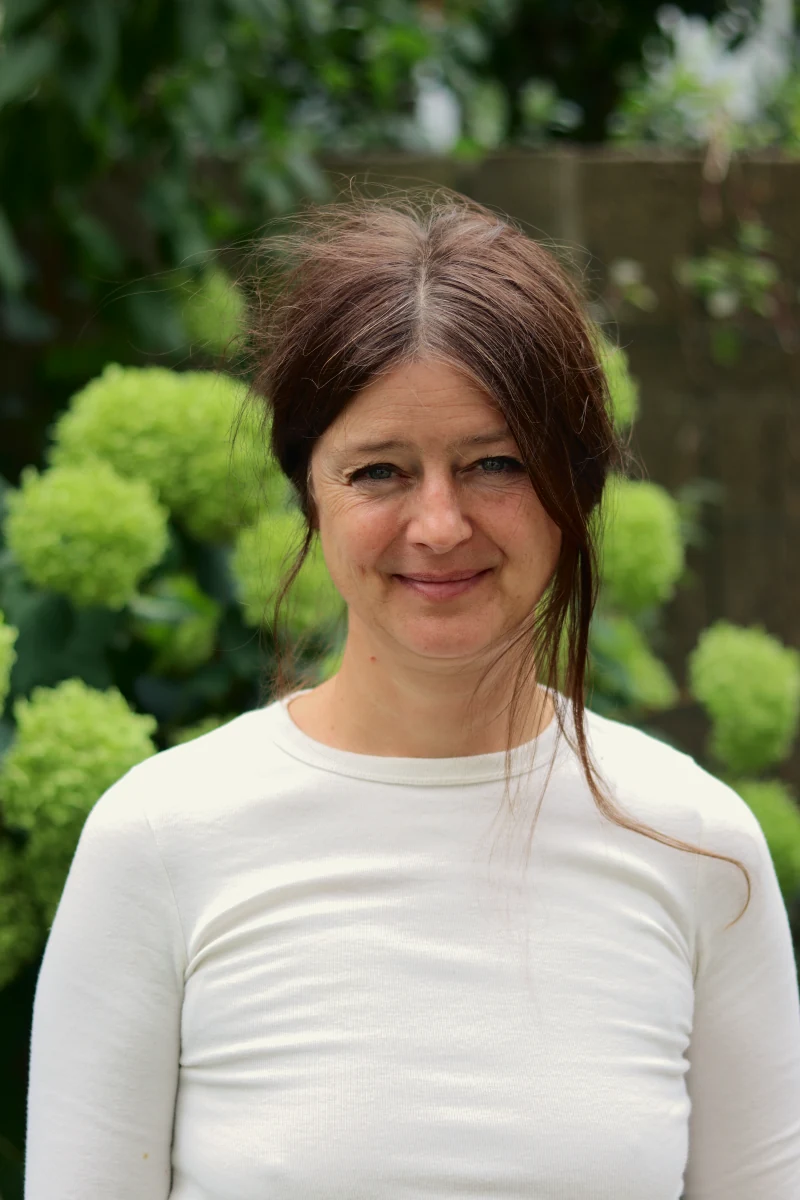
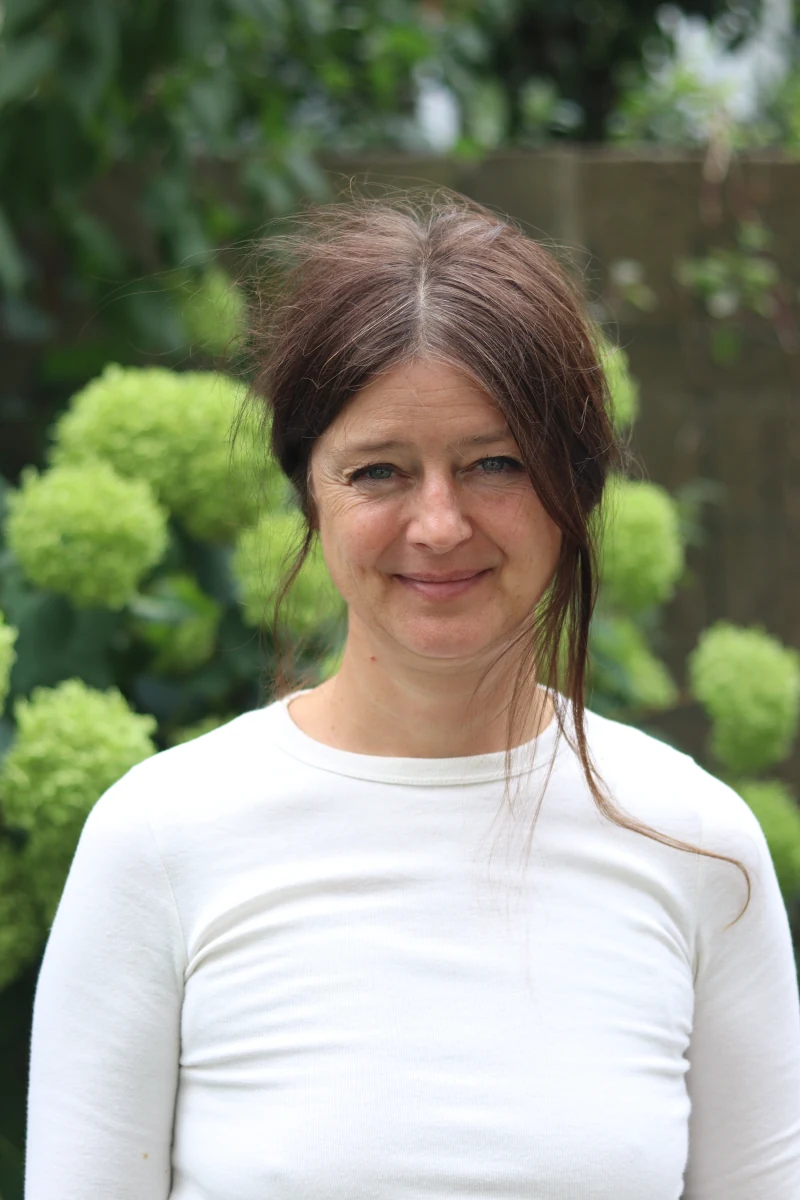
fix(team): portraits in their original colours
Rahman: "we should keep the original colors, it is better". Neither grade
tried on 2026-10-27 stays: build_team_portraits.py now only crops and
resizes the camera's own photographs (800px, WebP q88, still served
unoptimized so faces stay sharp).

diff --git a/src/config/content/team-spotlights.ts b/src/config/content/team-spotlights.ts
@@ -22,7 +22,7 @@ import { pick, say } from '@/lib/cms/copy';
  *
  * - Photographs only of real colleagues who agreed. The portraits are CASA's
  *   own team shoot of 2026-09-10, chosen and named by Rahman (2026-10-27), cropped
- *   and resized for the web in the site's warm editorial grade, light and colour only
+ *   and resized for the web in the camera's own colours, no grade
  *   (scripts/media/build_team_portraits.py): public/media/casa/team/. The six synthetic images
  *   that once sat there are gone: a made-up face beside a real colleague's name
  *   is never acceptable. Without a portrait the card shows one of the Bremer

diff --git a/scripts/media/build_team_portraits.py b/scripts/media/build_team_portraits.py
@@ -1,16 +1,10 @@
 """Build the team portraits (public/media/casa/team/) from CASA's 2026-09-10 team shoot.
 
 Each portrait is the colleague's own photograph — the file Rahman named after them, or the frame he
-chose (Meike: IMG_0342, 2026-10-27) — cropped where a recipe says so, resized, and graded the way
-build_reel.py grades the site's photographs (Codex's warm editorial pass, 2026-10-08): the white
-balance measured on the picture's own light neutrals — there a white wall, here a white collar or a
-pale background — then warmed, the tone curve to EDITORIAL_TONE, and EDITORIAL_CHROMA. Global light and
-colour only; nothing is retouched, moved or generated (CLAUDE.md hard rules 3 and 4).
-
-WARMTH. The first grade put the shared warm shift on top of the camera's own colour, so whites went
-yellow (b* +7 to +12; a white blouse read cream). The site's photographs end with their whites near
-neutral, b* about +1 (from -4 to +6, measured on the published files 2026-10-27). Each portrait is
-neutralised on its own light neutrals and then warmed until its whites reach WHITE_B, the same place.
+chose (Meike: IMG_0342, 2026-10-27) — cropped where a recipe says so and resized, in the camera's own
+colour. No grade: two were tried on 2026-10-27, build_reel.py's warm editorial pass and then the same
+pass neutralised on each photo's whites, and Rahman kept the original colours („it is better").
+Nothing is retouched, moved or generated (CLAUDE.md hard rules 3 and 4).
 
 SHARPNESS. The first set (1000px, WebP quality 82) went through the image server, which re-encoded it
 at quality 75 and lost about half its fine detail: skin read plastic, hair soft. Even at quality 90 the
@@ -32,16 +26,13 @@ import cv2
 import numpy as np
 from PIL import Image
 
-from build_reel import EDITORIAL_CHROMA, EDITORIAL_TONE, correct, load, warm
+from build_reel import load
 
 REPO = Path(__file__).resolve().parents[2]
 SOURCE = Path.home() / 'Downloads/CASA Team Photos 2026'
 OUT = REPO / 'public/media/casa/team'
 WIDTH = 800
 QUALITY = 88
-
-# Where a portrait's whites end, as on the site's photographs (b* of the light near-neutral pixels).
-WHITE_B = 2.5
 
 # slug: the original, and a box (x, y, width, height in the upright original) where the frame needs one.
 PORTRAITS = {
@@ -64,36 +55,6 @@ PORTRAITS = {
 }
 
 
-def whites(rgb: np.ndarray) -> tuple[np.ndarray, np.ndarray]:
-    """The light near-neutral pixels (L* over 60, chroma under 14) and their Lab values."""
-    lab = cv2.cvtColor(rgb, cv2.COLOR_RGB2LAB)
-    mask = (lab[..., 0] > 60) & (np.hypot(lab[..., 1], lab[..., 2]) < 14)
-    return mask, lab
-
-
-def grade(small: np.ndarray) -> np.ndarray:
-    """Neutral on its own whites, then warmed until they read as the site's do (WHITE_B)."""
-    mask, _ = whites(small)
-    neutral = small[mask].mean(axis=0) if mask.sum() > 500 else np.ones(3, np.float32)
-    gains = neutral[1] / neutral
-
-    def graded(strength: float) -> np.ndarray:
-        r, g, b = warm((1.0, 1.0, 1.0))
-        wb = gains * np.array([r ** strength, g, b ** strength], np.float32)
-        return correct(small, {'wb': tuple(wb), 'tone': EDITORIAL_TONE, 'chroma': EDITORIAL_CHROMA})
-
-    low, high = 0.0, 1.5
-    for _ in range(12):
-        mid = (low + high) / 2
-        out = graded(mid).astype(np.float32) / 255.0
-        mask, lab = whites(out)
-        if not mask.any() or lab[..., 2][mask].mean() > WHITE_B:
-            high = mid
-        else:
-            low = mid
-    return graded(low)
-
-
 def render(recipe: dict) -> np.ndarray:
     rgb = load(SOURCE / recipe['file'])
     h, w = rgb.shape[:2]
@@ -102,10 +63,8 @@ def render(recipe: dict) -> np.ndarray:
         if x0 < 0 or y0 < 0 or x0 + bw > w or y0 + bh > h:
             raise SystemExit(f"{recipe['file']}: box {recipe['box']} does not fit {w}x{h}")
         rgb = rgb[y0:y0 + bh, x0:x0 + bw]
-    # Resized first (only ever down), then graded: the grade is global, so the order changes nothing visible.
     size = (WIDTH, round(rgb.shape[0] * WIDTH / rgb.shape[1]))
-    small = cv2.resize(rgb, size, interpolation=cv2.INTER_AREA).astype(np.float32) / 255.0
-    return grade(small)
+    return cv2.resize(rgb, size, interpolation=cv2.INTER_AREA)
 
 
 def main() -> None:
@@ -126,7 +85,7 @@ def main() -> None:
             for row, image in enumerate((before, after)):
                 thumb = image.resize((tile, round(tile * image.height / image.width)), Image.LANCZOS)
                 canvas.paste(thumb, (10 + i * (tile + 10), 10 + row * (round(tile * 1.5) + 10)))
-        path = REPO / 'output/team-photos/grade-before-after.jpg'
+        path = REPO / 'output/team-photos/before-after.jpg'
         path.parent.mkdir(parents=True, exist_ok=True)
         canvas.save(path, quality=88)
         print(path)

diff --git a/CLAUDE.md b/CLAUDE.md
@@ -373,7 +373,7 @@ pattern already covers the case. If a fact is not verifiable in the repo, mark i
    the quote-to-person relationship are explicitly verified.
 3. **Team portraits are real colleagues, with consent** (`public/media/casa/team/`,
    CASA's 2026-09-10 team shoot, named by Rahman on 2026-10-27). Only a photo
-   CASA supplied for that person, cropped, resized and given the site's warm grade by
+   CASA supplied for that person, cropped and resized in its own colours (no grade, Rahman 2026-10-28) by
    `scripts/media/build_team_portraits.py`; anyone without one keeps a Bremer
    Stadtmusikanten stand-in. Never a synthetic or generated face beside a real name.
 4. **Photo edits stay source-faithful** — crop, resize, light exposure/color
